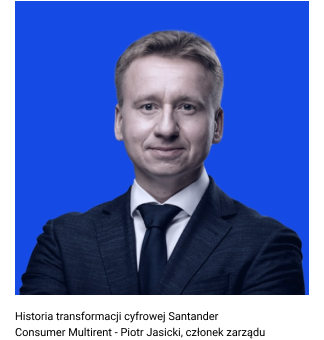
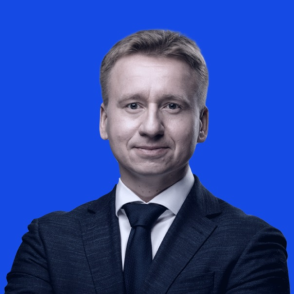
chore: history (reload photos and add photo-descriptions)

diff --git a/src/index.html b/src/index.html
@@ -104,15 +104,15 @@
                 <p class="history-descriptions__item">Każda historia jest inna, bo stoją za nimi unikalne organizacje tworzone przez ludzi obdarzonych wyjątkowymi pomysłami, talentami i doświadczeniami.
                 </p>
             </div>
-            <div class="history__photo1"><img src="./assets/image/3_history/photo_1.png"></div>
-            <div class="history__photo2"><img src="./assets/image/3_history/photo_2.png"></div>
-            <div class="history__photo3"><img src="./assets/image/3_history/photo_3.png"></div>
-            <div class="history__photo4"><img src="./assets/image/3_history/photo_4.png"></div>
-            <div class="history__photo5"><img src="./assets/image/3_history/photo_5.png"></div>
-            <div class="history__photo6"><img src="./assets/image/3_history/photo_6.png"></div>
-            <div class="history__photo7"><img src="./assets/image/3_history/photo_7.png"></div>
-            <div class="history__photo8"><img src="./assets/image/3_history/photo_8.png"></div>
-            <div class="history__afterwords">“Jesteśmy złączeni dzięki historiom” – Arystoteles, 384-322 p.n.e.</div>
+            <div class="history__photo history__photo1"><img src="./assets/image/3_history/photo_1.png">Historia transformacji zwinnej ADMIND - Krzysztof Langer, CEO i współwłaściciel</div>
+            <div class="history__photo history__photo2"><img src="./assets/image/3_history/photo_2.png">Historia transformacji cyfrowej Santander Consumer Multirent - Piotr Jasicki, członek zarządu</div>
+            <div class="history__photo history__photo3"><img src="./assets/image/3_history/photo_3.png">Historia transformacji biznesowej TONY - Mateusz Biegaj, pomysłodawca i współwłaściciel</div>
+            <div class="history__photo history__photo4"><img src="./assets/image/3_history/photo_4.png">Historia transformacji cyfrowej ANSEE - Piotr Szmigiel, członek zarządu</div>
+            <div class="history__photo history__photo5"><img src="./assets/image/3_history/photo_5.png">Historia partnerstwa strategicznego z FICTURO - Paulina Jarosz, współwłaścicielka marki</div>
+            <div class="history__photo history__photo6"><img src="./assets/image/3_history/photo_6.png">Historia startupu GLOBAL LIGNUM - Dominik Szkwarek, pomysłodawca i właściciel</div>
+            <div class="history__photo history__photo7"><img src="./assets/image/3_history/photo_7.png">Historia transformacji biznesowej EXSO - Marcin Kuczyński, współwłaściciel i prezes zarządu</div>
+            <div class="history__photo history__photo8"><img src="./assets/image/3_history/photo_8.png">Historia nowego rozdziału rozwoju USEO - Dariusz Michalski, CEO i właściciel</div>
+            <div class=" history__afterwords">“Jesteśmy złączeni dzięki historiom” – Arystoteles, 384-322 p.n.e.</div>
         </div>
     </div>
 

diff --git a/dist/index.html b/dist/index.html
@@ -104,15 +104,15 @@
                 <p class="history-descriptions__item">Każda historia jest inna, bo stoją za nimi unikalne organizacje tworzone przez ludzi obdarzonych wyjątkowymi pomysłami, talentami i doświadczeniami.
                 </p>
             </div>
-            <div class="history__photo1"><img src="/photo_1.e847bfe9.png"></div>
-            <div class="history__photo2"><img src="/photo_2.1c4776a9.png"></div>
-            <div class="history__photo3"><img src="/photo_3.d9deb4a3.png"></div>
-            <div class="history__photo4"><img src="/photo_4.52b4967f.png"></div>
-            <div class="history__photo5"><img src="/photo_5.1b51b65f.png"></div>
-            <div class="history__photo6"><img src="/photo_6.39ec2505.png"></div>
-            <div class="history__photo7"><img src="/photo_7.1ef956ea.png"></div>
-            <div class="history__photo8"><img src="/photo_8.f0de15c7.png"></div>
-            <div class="history__afterwords">“Jesteśmy złączeni dzięki historiom” – Arystoteles, 384-322 p.n.e.</div>
+            <div class="history__photo history__photo1"><img src="/photo_1.e847bfe9.png">Historia transformacji zwinnej ADMIND - Krzysztof Langer, CEO i współwłaściciel</div>
+            <div class="history__photo history__photo2"><img src="/photo_2.1c4776a9.png">Historia transformacji cyfrowej Santander Consumer Multirent - Piotr Jasicki, członek zarządu</div>
+            <div class="history__photo history__photo3"><img src="/photo_3.d9deb4a3.png">Historia transformacji biznesowej TONY - Mateusz Biegaj, pomysłodawca i współwłaściciel</div>
+            <div class="history__photo history__photo4"><img src="/photo_4.52b4967f.png">Historia transformacji cyfrowej ANSEE - Piotr Szmigiel, członek zarządu</div>
+            <div class="history__photo history__photo5"><img src="/photo_5.1b51b65f.png">Historia partnerstwa strategicznego z FICTURO - Paulina Jarosz, współwłaścicielka marki</div>
+            <div class="history__photo history__photo6"><img src="/photo_6.39ec2505.png">Historia startupu GLOBAL LIGNUM - Dominik Szkwarek, pomysłodawca i właściciel</div>
+            <div class="history__photo history__photo7"><img src="/photo_7.1ef956ea.png">Historia transformacji biznesowej EXSO - Marcin Kuczyński, współwłaściciel i prezes zarządu</div>
+            <div class="history__photo history__photo8"><img src="/photo_8.f0de15c7.png">Historia nowego rozdziału rozwoju USEO - Dariusz Michalski, CEO i właściciel</div>
+            <div class=" history__afterwords">“Jesteśmy złączeni dzięki historiom” – Arystoteles, 384-322 p.n.e.</div>
         </div>
     </div>
 

diff --git a/src/styles/main.scss b/src/styles/main.scss
@@ -183,6 +183,11 @@
         font-size: 1.7rem;
         }
 
+    &__photo {
+        font-size: 1.2rem;
+        max-width: 294;
+    }
+
     &__photo1 {
         grid-area: phot1;
     }

diff --git a/dist/index.971c2ea4.css b/dist/index.971c2ea4.css
@@ -175,6 +175,11 @@
   font-size: 1.7rem;
 }
 
+.history__photo {
+  max-width: 294px;
+  font-size: 1.2rem;
+}
+
 .history__photo1 {
   grid-area: phot1;
 }
